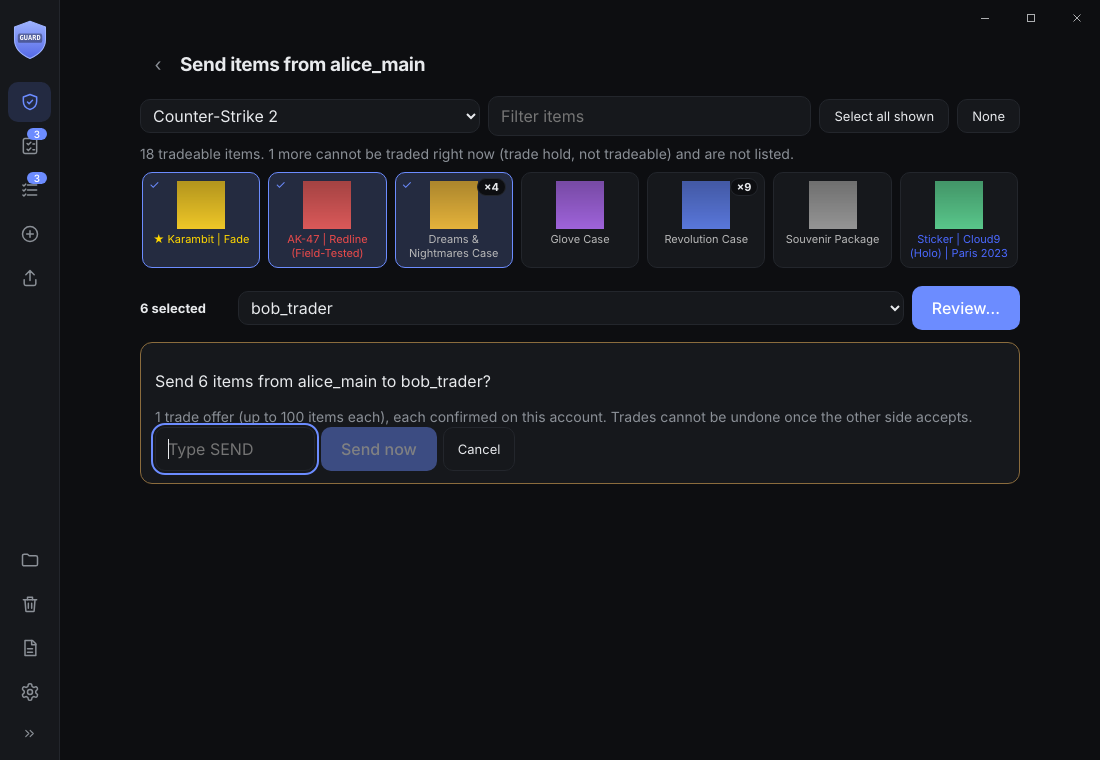
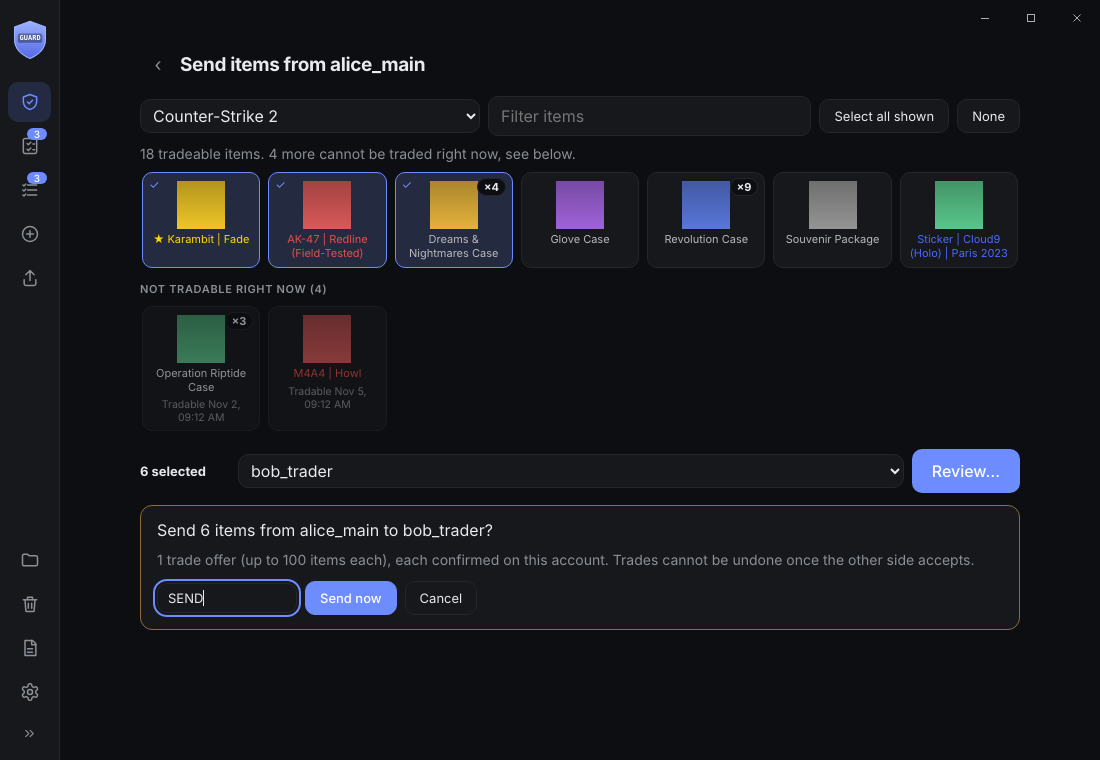
Send items: locked items with unlock dates, tighter confirm box
Claude-Session: https://claude.ai/code/session_01DW1HzNu7DPUhuZ6F8TPH3n

diff --git a/src/renderer/main.ts b/src/renderer/main.ts
@@ -139,7 +139,7 @@ declare const api: {
 	apiKeyTest(): P<'ok' | 'invalid' | 'network'>;
 	apiKeyRemove(): P<{ has: boolean; locked: boolean; hint: string }>;
 	apiKeyPage(): P<void>;
-	tradeInventory(id: string, game: string): P<{ items: TradeItem[]; untradable: number; cut: boolean }>;
+	tradeInventory(id: string, game: string): P<{ items: TradeItem[]; untradable: number; locked: { name: string; icon: string; color: string; count: number; until: number | null }[]; cut: boolean }>;
 	tradeLinks(): P<{ name: string; link: string }[]>;
 	tradeLinkSave(name: string, link: string): P<{ name: string; link: string }[]>;
 	tradeLinkRemove(link: string): P<{ name: string; link: string }[]>;
@@ -2243,11 +2243,13 @@ async function sendScreen(id: string): Promise<void> {
 	let savedLinks = links.ok ? links.value : [];
 	let game = 'cs2';
 	let items: TradeItem[] = [];
+	let locked: { name: string; icon: string; color: string; count: number; until: number | null }[] = [];
 	const picked = new Set<string>();
 	let filter = '';
 	let busy = false;
 
 	const grid = el('div', { class: 'items' });
+	const lockedBox = el('div', { class: 'locked-box', hidden: true });
 	const info = el('p', { class: 'hint', textContent: '' });
 	const count = el('strong', { textContent: '0 selected' });
 	const gameSel = el('select', { ariaLabel: 'Game' });
@@ -2328,6 +2330,26 @@ async function sendScreen(id: string): Promise<void> {
 		drawSummary();
 	}
 
+	const when = (until: number | null): string =>
+		until === null ? 'Not tradable' : `Tradable ${new Date(until * 1000).toLocaleString([], { day: 'numeric', month: 'short', hour: '2-digit', minute: '2-digit' })}`;
+	function drawLocked(): void {
+		lockedBox.hidden = locked.length === 0;
+		if (!locked.length) return;
+		const total = locked.reduce((n, l) => n + l.count, 0);
+		lockedBox.replaceChildren(
+			el('h2', { textContent: `Not tradable right now (${total})` }),
+			el('div', { class: 'items' }, ...locked.map((l) => {
+				const nameEl = el('span', { class: 'iname', textContent: l.name });
+				if (l.color) nameEl.style.color = `#${l.color}`;
+				const tile = el('div', { class: 'item locked', title: `${l.name}: ${when(l.until)}` },
+					l.icon ? el('img', { src: itemImage(l.icon), alt: '', loading: 'lazy' }) : el('span', { class: 'noimg', textContent: '?' }),
+					nameEl,
+					el('span', { class: 'until', textContent: when(l.until) }));
+				if (l.count > 1) tile.append(el('span', { class: 'qty', textContent: `×${l.count}` }));
+				return tile;
+			})));
+	}
+
 	const confirmBox = el('div', { class: 'send-confirm', hidden: true });
 	const result = el('div', { class: 'send-result' });
 	const sendBtn = el('button', { class: 'primary', type: 'button', textContent: 'Review…' });
@@ -2364,9 +2386,11 @@ async function sendScreen(id: string): Promise<void> {
 			return drawSummary();
 		}
 		items = r.value.items;
+		locked = r.value.locked;
+		drawLocked();
 		info.textContent = [
 			`${items.length} tradeable item${items.length === 1 ? '' : 's'}.`,
-			r.value.untradable ? `${r.value.untradable} more cannot be traded right now (trade hold, not tradeable) and are not listed.` : '',
+			r.value.untradable ? `${r.value.untradable} more cannot be traded right now, see below.` : '',
 			r.value.cut ? 'The inventory is very large; only the first part is shown.' : ''
 		].filter(Boolean).join(' ');
 		drawGrid();
@@ -2377,8 +2401,8 @@ async function sendScreen(id: string): Promise<void> {
 	sendBtn.addEventListener('click', () => {
 		const n = chosen().length;
 		const offers = Math.ceil(n / OFFER_SIZE);
-		const word = el('input', { type: 'text', class: 'search', placeholder: 'Type SEND', ariaLabel: 'Type SEND to confirm', autocomplete: 'off', spellcheck: false });
-		const go = el('button', { class: 'primary', type: 'button', textContent: 'Send now', disabled: true });
+		const word = el('input', { type: 'text', class: 'search word', placeholder: 'Type SEND', ariaLabel: 'Type SEND to confirm', autocomplete: 'off', spellcheck: false });
+		const go = el('button', { class: 'small primary', type: 'button', textContent: 'Send now', disabled: true });
 		word.addEventListener('input', () => { go.disabled = word.value.trim() !== 'SEND'; });
 		go.addEventListener('click', async () => {
 			const target = targetParam();
@@ -2406,7 +2430,7 @@ async function sendScreen(id: string): Promise<void> {
 		confirmBox.replaceChildren(
 			el('p', { textContent: `Send ${n} item${n === 1 ? '' : 's'} from ${accountLabel(me.name, me.nickname)} to ${targetName()}?` }),
 			el('p', { class: 'hint', textContent: `${offers} trade offer${offers === 1 ? '' : 's'} (up to ${OFFER_SIZE} items each), each confirmed on this account. Trades cannot be undone once the other side accepts.` }),
-			el('div', { class: 'row-actions left' }, word, go, el('button', { class: 'small', type: 'button', textContent: 'Cancel', onclick: () => { confirmBox.hidden = true; } })));
+			el('div', { class: 'confirm-actions' }, word, go, el('button', { class: 'small', type: 'button', textContent: 'Cancel', onclick: () => { confirmBox.hidden = true; } })));
 		word.focus();
 	});
 
@@ -2417,6 +2441,7 @@ async function sendScreen(id: string): Promise<void> {
 			el('div', { class: 'send-bar' }, gameSel, search, el('button', { class: 'small', type: 'button', textContent: 'Select all shown', onclick: () => { for (const [, g] of visible()) for (const i of g) picked.add(i.assetId); drawGrid(); } }), el('button', { class: 'small', type: 'button', textContent: 'None', onclick: () => { picked.clear(); drawGrid(); } })),
 			info,
 			grid,
+			lockedBox,
 			el('div', { class: 'send-to' }, el('div', { class: 'send-count' }, count), targetSel, sendBtn),
 			linkBox,
 			confirmBox,

diff --git a/src/main/trade.ts b/src/main/trade.ts
@@ -62,10 +62,19 @@ export interface Item {
 	color: string;
 	amount: number;
 }
+/** Items that exist but cannot be traded right now, grouped. `until` is Unix seconds when Steam names a date. */
+export interface Locked {
+	name: string;
+	icon: string;
+	color: string;
+	count: number;
+	until: number | null;
+}
 export interface Inventory {
 	items: Item[];
-	/** Items that exist but cannot be traded right now. */
+	/** How many items cannot be traded right now. */
 	untradable: number;
+	locked: Locked[];
 }
 export interface InventoryRead extends Inventory {
 	/** True when the inventory was longer than what was read. */
@@ -102,10 +111,26 @@ function checkStatus(status: number): void {
 
 const word = (v: unknown, max = 200): string => (typeof v === 'string' ? v.slice(0, max) : '');
 
+/** When a trade-protected item becomes tradable: Steam's expiry stamp, or the "Tradable After …" line it shows. */
+export function unlockTime(d: Record<string, unknown>): number | null {
+	const stamp = typeof d['cache_expiration'] === 'string' ? Date.parse(d['cache_expiration']) : NaN;
+	if (Number.isFinite(stamp)) return Math.floor(stamp / 1000);
+	for (const o of Array.isArray(d['owner_descriptions']) ? d['owner_descriptions'] : []) {
+		const v = (o as Record<string, unknown>)['value'];
+		const m = typeof v === 'string' ? /After (\w{3}) (\d{1,2}), (\d{4}) \((\d{1,2}):(\d{2}):(\d{2})\) GMT/.exec(v) : null;
+		if (m) {
+			const at = Date.parse(`${m[1]} ${m[2]} ${m[3]} ${m[4]}:${m[5]}:${m[6]} GMT`);
+			if (Number.isFinite(at)) return Math.floor(at / 1000);
+		}
+	}
+	return null;
+}
+
 /** One page of an inventory reply, reduced to what the screen needs. */
 export function parseInventory(pages: unknown[]): Inventory {
 	const items: Item[] = [];
 	let untradable = 0;
+	const locked = new Map<string, Locked>();
 	for (const body of pages) {
 		const b = (body ?? {}) as Record<string, unknown>;
 		const assets = Array.isArray(b['assets']) ? b['assets'] : [];
@@ -120,6 +145,13 @@ export function parseInventory(pages: unknown[]): Inventory {
 			if (!d) continue;
 			if (d['tradable'] !== 1) {
 				untradable++;
+				const until = unlockTime(d);
+				const key = `${String(o['classid'])}_${String(o['instanceid'])}_${until ?? ''}`;
+				const icon = word(d['icon_url'], 400);
+				const color = word(d['name_color'], 6);
+				const seen = locked.get(key);
+				if (seen) seen.count++;
+				else if (locked.size < 500) locked.set(key, { name: word(d['market_name'] ?? d['name']) || word(d['name']), icon: /^[\w-]+$/.test(icon) ? icon : '', color: /^[0-9a-fA-F]{6}$/.test(color) ? color : '', count: 1, until });
 				continue;
 			}
 			const assetId = String(o['assetid'] ?? '');
@@ -138,7 +170,7 @@ export function parseInventory(pages: unknown[]): Inventory {
 			});
 		}
 	}
-	return { items, untradable };
+	return { items, untradable, locked: [...locked.values()].sort((a, b) => (a.until ?? Infinity) - (b.until ?? Infinity)) };
 }
 
 export async function fetchInventory(http: Http, steamId: string, game: Game, cookie: string): Promise<InventoryRead> {
@@ -148,7 +180,7 @@ export async function fetchInventory(http: Http, steamId: string, game: Game, co
 	for (let i = 0; i < MAX_PAGES; i++) {
 		const url = `https://steamcommunity.com/inventory/${steamId}/${game.appId}/${game.contextId}?l=english&count=2000${start ? `&start_assetid=${start}` : ''}`;
 		const res = await http({ method: 'GET', url, headers: { 'User-Agent': BROWSER, Cookie: cookie } });
-		if (res.status === 500 || res.status === 404) return { items: [], untradable: 0, cut: false };
+		if (res.status === 500 || res.status === 404) return { items: [], untradable: 0, locked: [], cut: false };
 		checkStatus(res.status);
 		let body: Record<string, unknown>;
 		try {

diff --git a/tests/trade.test.ts b/tests/trade.test.ts
@@ -1,5 +1,5 @@
 import { describe, expect, it } from 'vitest';
-import { GAMES, accountIdOf, chunk, fetchInventory, fetchOwnTradeLink, parseInventory, parseTradeLink, sendOffer, type Http, type Item } from '../src/main/trade';
+import { GAMES, accountIdOf, chunk, fetchInventory, fetchOwnTradeLink, parseInventory, parseTradeLink, unlockTime, sendOffer, type Http, type Item } from '../src/main/trade';
 
 const LINK = 'https://steamcommunity.com/tradeoffer/new/?partner=1039734271&token=AbCd_-12';
 const item = (n: number): Item => ({ assetId: String(n), group: 'g', name: 'Case', type: 'Container', icon: 'x', color: '', amount: 1 });
@@ -54,6 +54,23 @@ describe('inventory', () => {
 	});
 	it('maps a dead session to a clear message', async () => {
 		await expect(fetchInventory(async () => ({ status: 302, text: '' }), '76561199000000001', GAMES[0]!, 'c')).rejects.toThrow(/sign in/i);
+	});
+});
+
+describe('locked items', () => {
+	it('reads the unlock time from the expiry stamp or the shown line', () => {
+		expect(unlockTime({ cache_expiration: '2026-11-06T07:00:00Z' })).toBe(Date.parse('2026-11-06T07:00:00Z') / 1000);
+		expect(unlockTime({ owner_descriptions: [{ value: 'Tradable After Nov 6, 2026 (7:00:00) GMT' }] })).toBe(Date.parse('2026-11-06T07:00:00Z') / 1000);
+		expect(unlockTime({})).toBeNull();
+	});
+	it('lists locked items grouped, soonest first', () => {
+		const d = (c: string, extra: object) => ({ classid: c, instanceid: '0', market_name: c, tradable: 0, ...extra });
+		const inv = parseInventory([{
+			assets: [1, 2, 3, 4].map((n) => ({ assetid: String(n), classid: n < 3 ? 'late' : 'soon', instanceid: '0' })),
+			descriptions: [d('late', { cache_expiration: '2026-12-01T00:00:00Z' }), d('soon', { cache_expiration: '2026-11-01T00:00:00Z' })]
+		}]);
+		expect(inv.items).toHaveLength(0);
+		expect(inv.locked.map((l) => [l.name, l.count])).toEqual([['soon', 2], ['late', 2]]);
 	});
 });
 

diff --git a/src/renderer/style.css b/src/renderer/style.css
@@ -538,7 +538,15 @@ button:active:not(:disabled) { transform: scale(.97); }
 .send-count { min-width: 90px; font-size: 13px; }
 .link-box { display: flex; flex-direction: column; gap: 6px; margin-top: 8px; }
 .link-box[hidden], .send-confirm[hidden] { display: none; }
-.send-confirm { margin-top: 12px; padding: 12px 14px; background: var(--surface); border: 1px solid color-mix(in srgb, var(--warn) 55%, var(--line)); border-radius: 12px; animation: rise .2s ease-out; }
-.send-confirm .search { max-width: 160px; }
+.send-confirm { display: flex; flex-direction: column; gap: 10px; margin-top: 12px; padding: 14px 16px; background: var(--surface); border: 1px solid color-mix(in srgb, var(--warn) 55%, var(--line)); border-radius: 12px; animation: rise .2s ease-out; }
+.send-confirm p { margin: 0; }
+.confirm-actions { display: flex; align-items: center; gap: 8px; }
+.send-confirm .search.word { width: 140px; padding: 6px 10px; font-size: 13px; }
+.locked-box { margin-bottom: 12px; }
+.locked-box h2 { margin: 6px 0 8px; }
+.locked-box .items { max-height: 26vh; }
+.item.locked { opacity: .6; cursor: default; }
+.item.locked:hover { border-color: var(--line); }
+.item .until { font-size: 10.5px; color: var(--muted); }
 .send-result { margin-top: 10px; }
 .send-result .good { color: var(--ok, #4cc38a); }

diff --git a/CHANGELOG.md b/CHANGELOG.md
@@ -16,7 +16,7 @@
 - Export, Codes and the account page: pinned accounts first, as before.
 - Cleanup: the stylesheet's account-list rules are now one section instead of layered overrides; ban texts live in one place; removed the Density setting (the design is compact now), unused code and imports, and merged the profile name and picture address files into one `data/avatars/profiles.json` (older files are read once and carried over). The build now fails on unused code.
 - Settings are split into tabs (General, Bans, Confirmations, Security, Import and updates, Health and about). The theme (System, Light, Dark) is now chosen there as a three-way switch instead of an icon in the side menu.
-- Send items: on the account page (or right-click, Send items…) pick an account's tradeable items from a game's inventory (CS2, Dota 2, TF2, Rust, Steam cards and similar), with pictures, names and stack counts, a filter and select all/none. Send them to another of your accounts (its trade link is read from that account) or to a pasted or saved trade link. A summary and typing SEND are required first; the items are checked against Steam's current inventory, split into offers of up to 100, and each offer is confirmed on the sending account automatically. Items on trade hold are not listed. This uses the same web calls as Steam's own trade page, which Steam may change.
+- Send items: on the account page (or right-click, Send items…) pick an account's tradeable items from a game's inventory (CS2, Dota 2, TF2, Rust, Steam cards and similar), with pictures, names and stack counts, a filter and select all/none. Send them to another of your accounts (its trade link is read from that account) or to a pasted or saved trade link. A summary and typing SEND are required first; the items are checked against Steam's current inventory, split into offers of up to 100, and each offer is confirmed on the sending account automatically. Items that cannot be traded yet (trade protection) are not selectable and are shown separately with the date they become tradable. This uses the same web calls as Steam's own trade page, which Steam may change.
 - README screenshots redone for the new design, plus grid and settings.
 - Grid layout: roomier cards; name and login name stay together, status icons sit on their own line below them. Fixed the star overlapping the details arrow.
 
